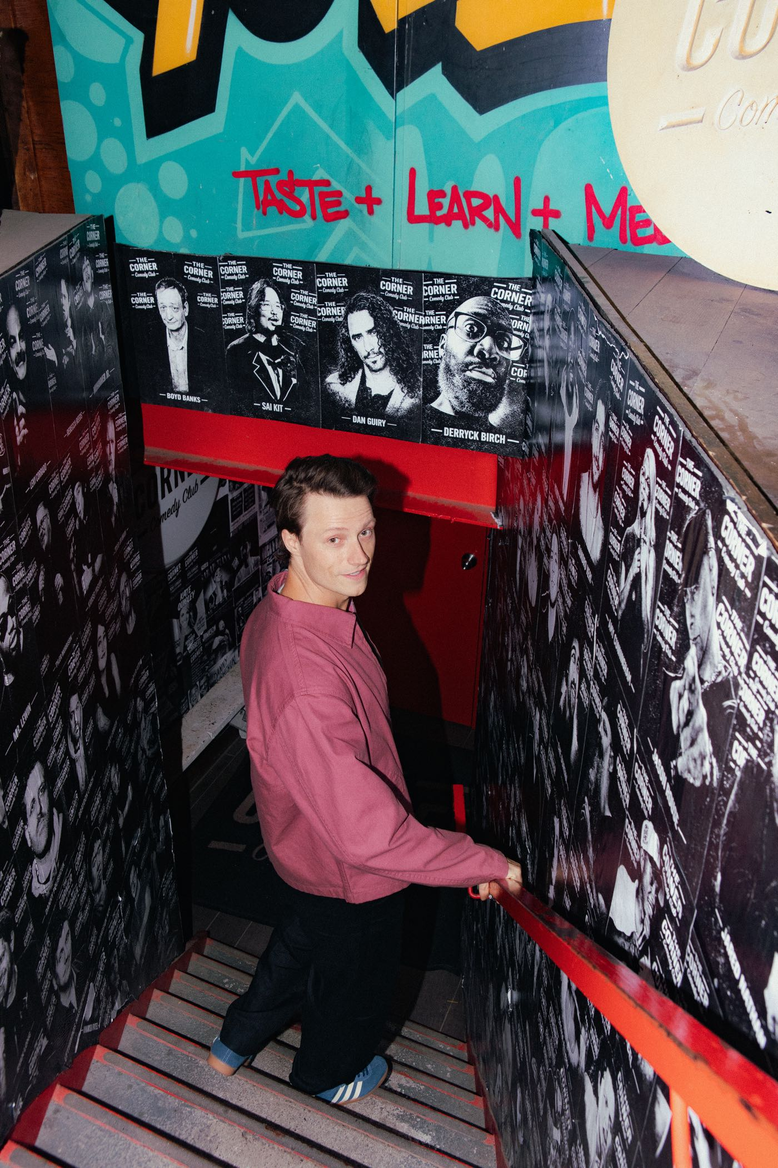
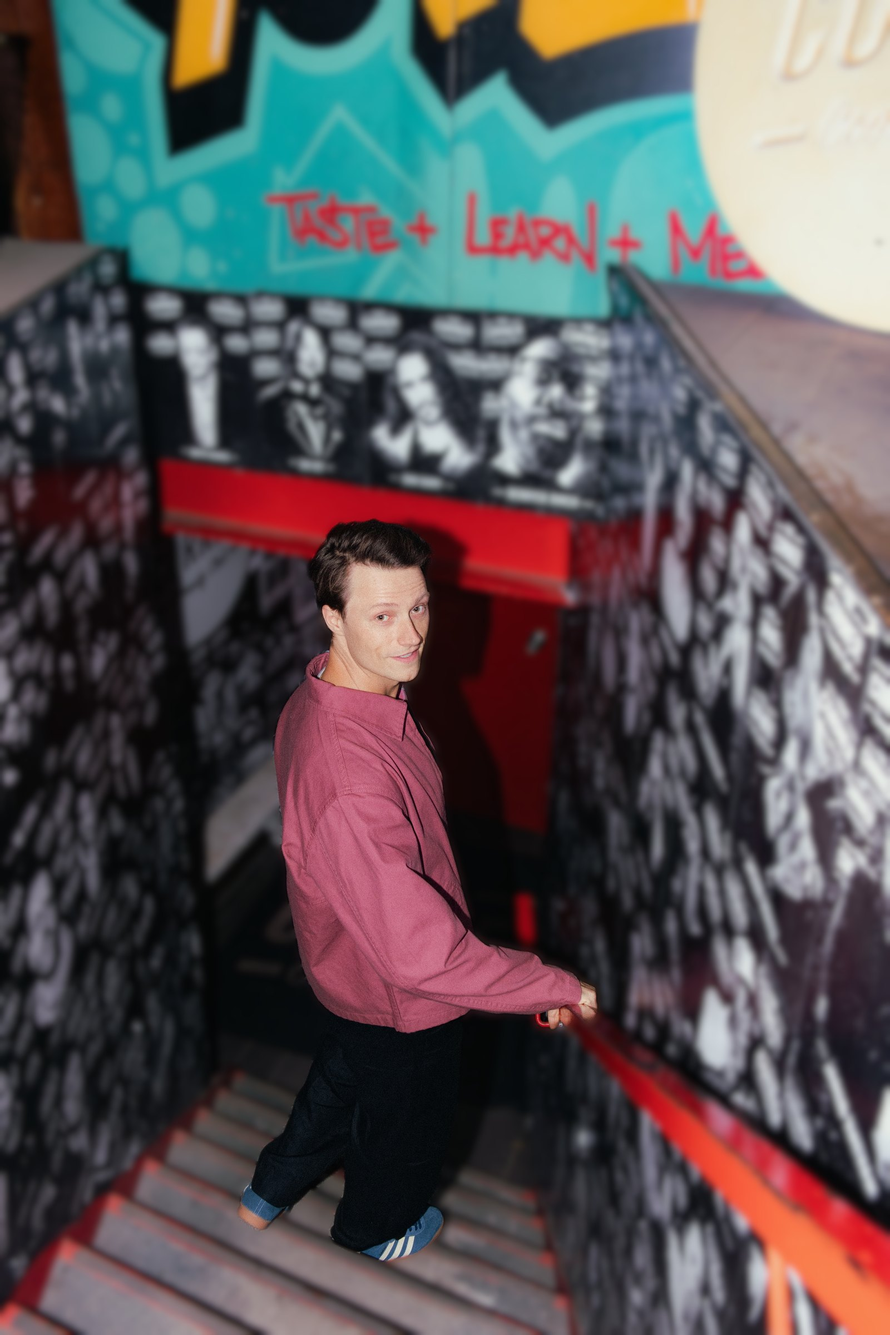
feat(home): shorter hero, tighter headroom, blurred background
- Hero is no longer full-screen: ~72vh on desktop (640-820px) and 92svh on
  phones, so the tour dates are visible or peeking on first load.
- The crop is now pinned to his hairline (just under the nav) instead of a
  percentage, so the posters above his head are out of frame at every size.
- hero-home.jpg has the background blurred with him left sharp, re-exported
  at 1600x2400 (323KB, down from 499KB).
- Fixes the photo not spanning the width on landscape phones.

diff --git a/app/globals.css b/app/globals.css
@@ -25,35 +25,56 @@ body {
   -webkit-font-smoothing: antialiased;
 }
 
-/* Home hero: hero-home.jpg is a 2:3 portrait with the face ~42% across, ~46% down.
-   Phones and portrait tablets zoom in on him; desktop pins the photo to the right. */
-.hero-bg {
-  background-size: auto 150%;
-  background-position: 34% 76%;
+/* Home hero. hero-home.jpg is a 2:3 portrait with his hairline 39% down and his
+   face 41.6% across. The crop is pinned to those two numbers so it holds at any
+   screen shape: --hh is the hero height, --iw the rendered photo width, and
+   0.585 is 0.39 x 1.5 (the hairline, in photo widths). */
+.hero {
+  --hh: max(620px, 92vh);
+  --iw: max(var(--hh), 135vw);
+  min-height: var(--hh);
 }
 
-/* The top of the frame is bright graffiti and posters; fade it so the nav stays readable. */
+@supports (height: 1svh) {
+  .hero {
+    --hh: max(620px, 92svh);
+  }
+}
+
+/* Phones and tablets: full-bleed, hairline just under the nav, face right of centre. */
+.hero-bg {
+  background-size: var(--iw) auto;
+  background-position: calc(55vw - var(--iw) * 0.416) calc(84px - var(--iw) * 0.585);
+}
+
+/* Fade behind the nav so the menu stays readable over the photo. */
 .hero-bg::after {
   content: "";
   position: absolute;
   inset: 0 0 auto 0;
-  height: 200px;
-  background: linear-gradient(to bottom, rgb(10 10 10 / 0.8), rgb(10 10 10 / 0));
+  height: 120px;
+  background: linear-gradient(to bottom, rgb(10 10 10 / 0.85), rgb(10 10 10 / 0));
   pointer-events: none;
 }
 
-/* Bottom fade: dark behind the headline, clear by the time it reaches his face. */
+/* Bottom fade, in px because the headline block is a fixed ~380px tall:
+   dark behind the text, gone by the time it reaches his face. */
 .hero-fade {
-  background-image: linear-gradient(to top, #0A0A0A 0%, rgb(10 10 10 / 0.8) 28%, rgb(10 10 10 / 0.25) 55%, rgb(10 10 10 / 0) 75%);
+  background-image: linear-gradient(to top, #0A0A0A 0, rgb(10 10 10 / 0.8) 170px, rgb(10 10 10 / 0.45) 380px, rgb(10 10 10 / 0) 470px);
 }
 
+/* Desktop: shorter hero so the tour dates show without scrolling, photo pinned right.
+   The 58vw term keeps the photo tall enough to fill the hero in squarish windows. */
 @media (min-width: 1024px) {
+  .hero {
+    --hh: clamp(640px, min(72vh, 58vw), 820px);
+    --iw: min(60vw, calc(var(--hh) * 1.45));
+  }
+
   .hero-bg {
     left: auto;
-    /* 110vh cap keeps his face in frame on ultrawide monitors */
-    width: min(60vw, 110vh);
-    background-size: cover;
-    background-position: center 85%;
+    width: var(--iw);
+    background-position: center calc(88px - var(--iw) * 0.585);
     -webkit-mask-image: linear-gradient(to right, transparent 0px, black 180px);
     mask-image: linear-gradient(to right, transparent 0px, black 180px);
   }

diff --git a/components/Hero.tsx b/components/Hero.tsx
@@ -2,7 +2,7 @@ import Link from "next/link";
 
 export default function Hero() {
   return (
-    <section className="relative min-h-screen flex items-end overflow-hidden">
+    <section className="relative hero flex items-end overflow-hidden">
       <div
         className="absolute inset-0 bg-cover bg-no-repeat hero-bg"
         style={{ backgroundImage: "url('/hero-home.jpg')" }}
